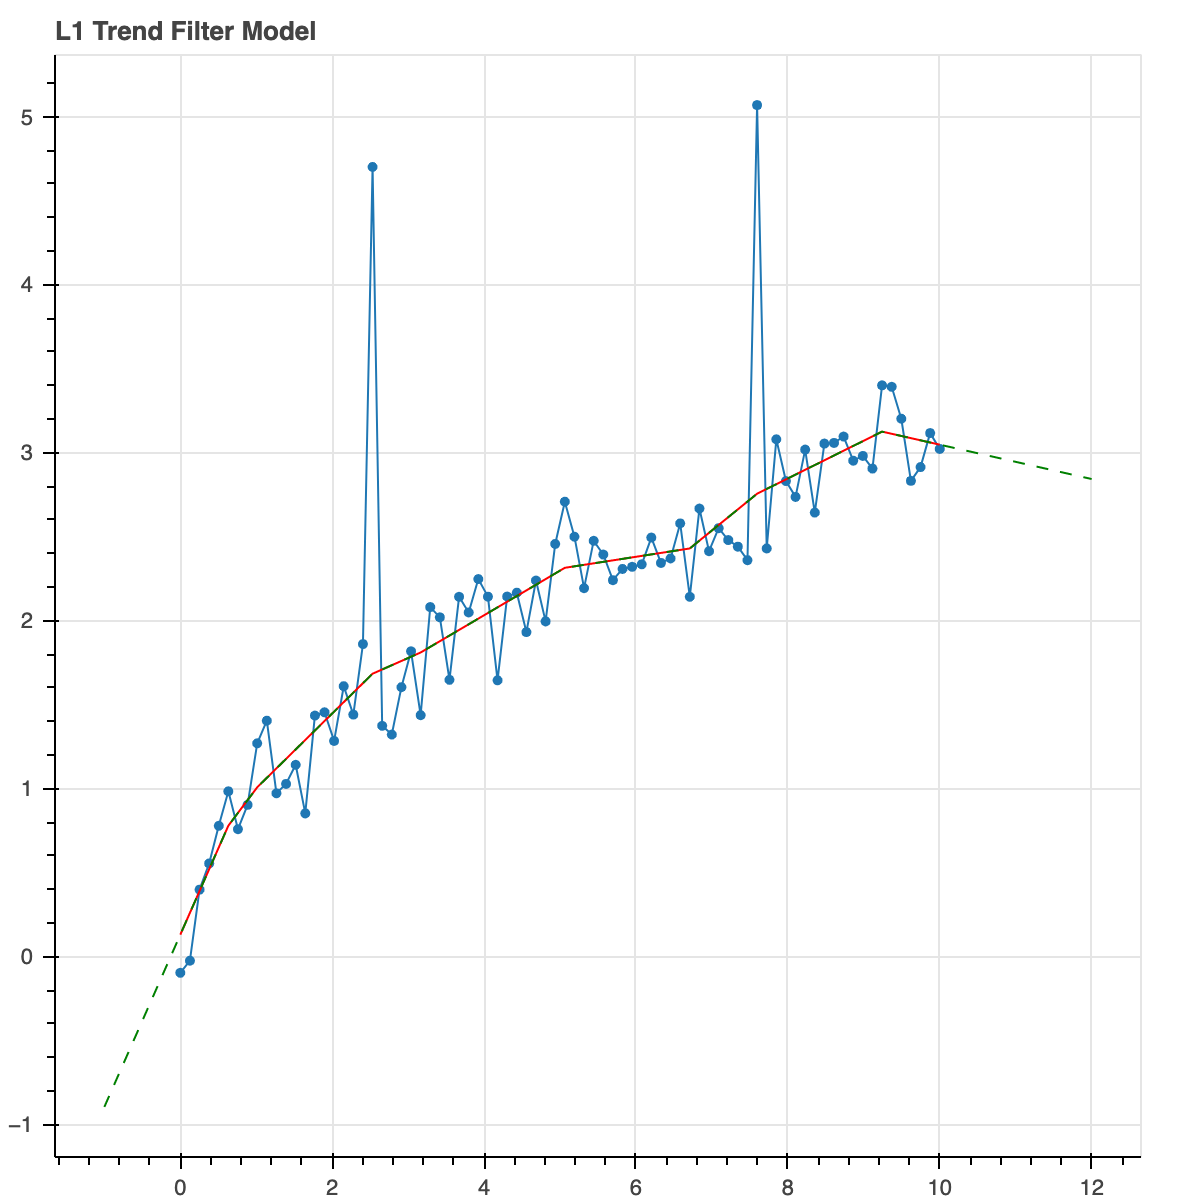
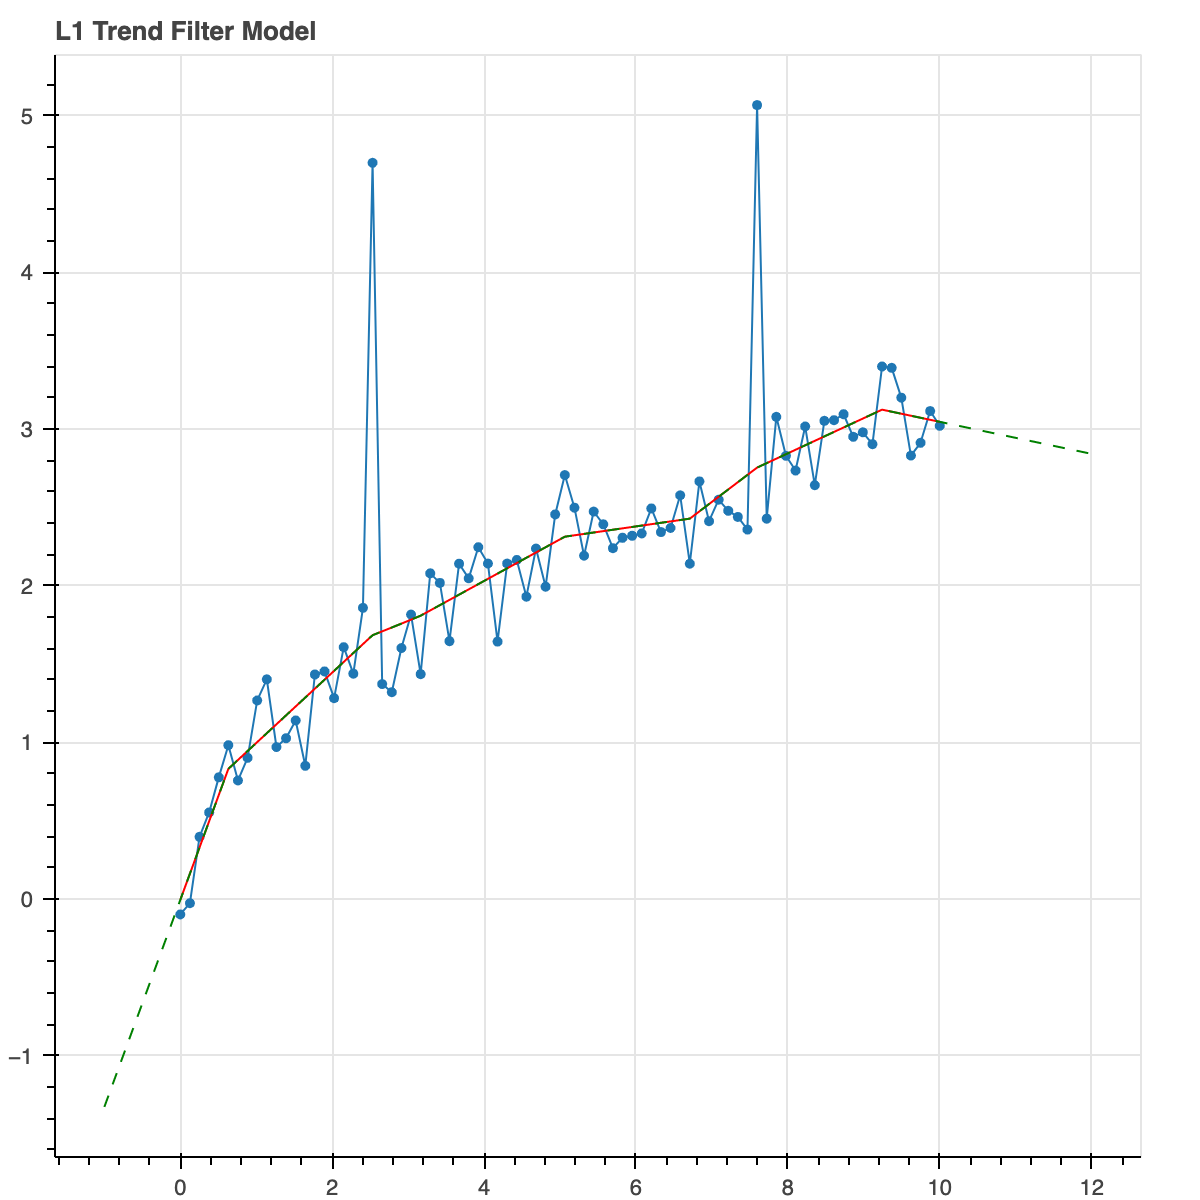
Made new plots and updated Readme

diff --git a/test/test_tf.py b/test/test_tf.py
@@ -46,12 +46,7 @@ def plot_model(title, **kwargs):
 
     plot.line(x, y_fit, color='red')
 
-    # create an interpolation function for the model
-    # can also just give it return_function=True
-    # and get back the interpolation function instead of the
-    # model evaluated at points
-
-    f = interp1d(x, y_fit, fill_value="extrapolate")
+    f = result['function']
 
     # over-plot the function, showing the extrapolation too
     xx = np.linspace(x.min() - 1, x.max() + 2, 500)

diff --git a/README.md b/README.md
@@ -73,7 +73,7 @@ at a few of them. Thus, we expect piecewise linear trends that
 occasionally have sudden slope changes.
 
 ```
-y_fit = trend_filter(x, y_noisy, l_norm=1, alpha_1=0.2)
+y_fit = trend_filter(x, y_noisy, l_norm=1, alpha_2=0.2)
 ```
 
 ![L1TF](./plots/bokeh_plot_l1_trend_filter.png)
@@ -81,7 +81,7 @@ y_fit = trend_filter(x, y_noisy, l_norm=1, alpha_1=0.2)
 Let's do the same thing but enforce it to be monotonic.
 
 ```
-y_fit = trend_filter(x, y_noisy, l_norm=1, alpha_1=0.2, monotonic=True)
+y_fit = trend_filter(x, y_noisy, l_norm=1, alpha_2=0.2, monotonic=True)
 ```
 
 ![L1TFMono](./plots/bokeh_plot_l1_trend_filter_mono.png)
@@ -92,20 +92,21 @@ penalty to slope changes. It results in longer trends. Fewer slope
 changes. Overall, less complexity.
 
 ```
-y_fit = trend_filter(x, y_noisy, l_norm=1, alpha_1=2.0)
+y_fit = trend_filter(x, y_noisy, l_norm=1, alpha_2=2.0)
 ```
 
 ![L1TFMoreReg](./plots/bokeh_plot_l1_trend_filter_more_reg.png)
 
 
 Did you like the stair steps? Let's do that again. But now
-we will not force it to be monotonic. We are going to put an 
+we will not force it to be monotonic. We are going to put an
 L1 norm on the first derivative. This produces a similar 
 output but it could actually decrease if the data actually
-did so. 
+did so. Let's also constrain the curve to go through the origin, 
+(0,0).
 
 ```
-y_fit = trend_filter(x, y_noisy, l_norm=1, alpha_0=8.0)
+y_fit = trend_filter(x, y_noisy, l_norm=1, alpha_1=1.0, constrain_zero=True)
 ```
 
 ![L1TFSteps](./plots/bokeh_plot_stair_steps.png)
@@ -119,43 +120,35 @@ smooth continuous curve. This is a nice way of doing robust
 smoothing. 
 
 ```
-y_fit = trend_filter(x, y_noisy, l_norm=2, alpha_1=1.0)
+y_fit = trend_filter(x, y_noisy, l_norm=2, alpha_2=2.0)
 ```
 
-![L2TF](./plots/bokeh_plot_l2_trend_filter.png)
-
-Let's use L1 norm again but put it on the 3rd derivative. 
-This will result in sparse changes in second derivative. So
-locally things will be quadratic but with sparse changes. 
-
-We also have a key-word to constraint the function to pass 
-through the origin, (0,0).
-
-```
-y_fit = trend_filter(x, y_noisy, l_norm=1, alpha_2=3.0, constrain_zero=True)
-```
-
-![L2PWQ](./plots/bokeh_plot_piecewise_quadratic_constrain_zero.png)
+![L2TF](./plots/bokeh_plot_l2_smooth.png)
 
 
 Here is the full function signature.
 
 ```
-def trend_filter(x, y, y_err=None, alpha_2=0.0,
-                 alpha_1=0.0, alpha_0=0.0, l_norm=2,
+def trend_filter(x, y, y_err=None, alpha_1=0.0,
+                 alpha_2=0.0, l_norm=2,
                  constrain_zero=False, monotonic=False,
-                 return_function=False):
+                 positive=False,
+                 linear_deviations=None):
 ```
 
 So you see there are alpha key-words for regularization parameters. 
-The number n, tells you the n+1 derivative is being penalized.
+The number n, tells you the derivative is being penalized.
 You can use any, all or none of them. The key-word
 l_norm gives you the choice of 1 or 2. Monotonic and 
-constrain_zero, we've explained already. 
+constrain_zero, we've explained already. positive forces the 
+base model to be positive. linear_deviations will be explained in a bit.
 
-The return_function allows you to get either the model at 
-the points in an array (default) or the interpolating 
-function of the model to apply to some other x values. 
+The data structure returned by trend_filter is a dictionary with various
+pieces of information about the model. The most import are 
+'y_fit' which is an array of best fit model values corresponding to 
+each point x. The 'function' element is a function mapping any x to the
+model value, including points outside the initial range. These will be
+extrapolated linearly.
 
 We didn't discuss y_err. That's the uncertainty on y. The
 default is 1. The Huber loss is actually applied to (data-model)/y_err.
@@ -166,7 +159,7 @@ as y_err goes towards zero and it will make the curve go through those
 points.
 
 All in all, these keywords give you a huge amount of freedom in
-what you want your model to look like. 
+what you want your model to look like.
 
 Enjoy!
 
